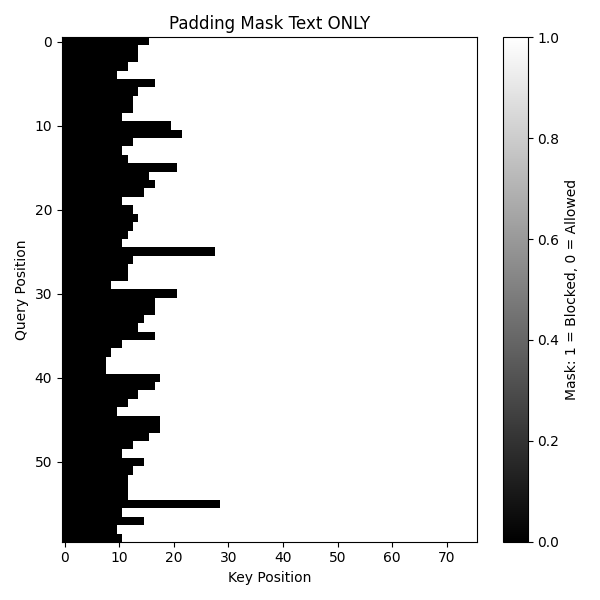
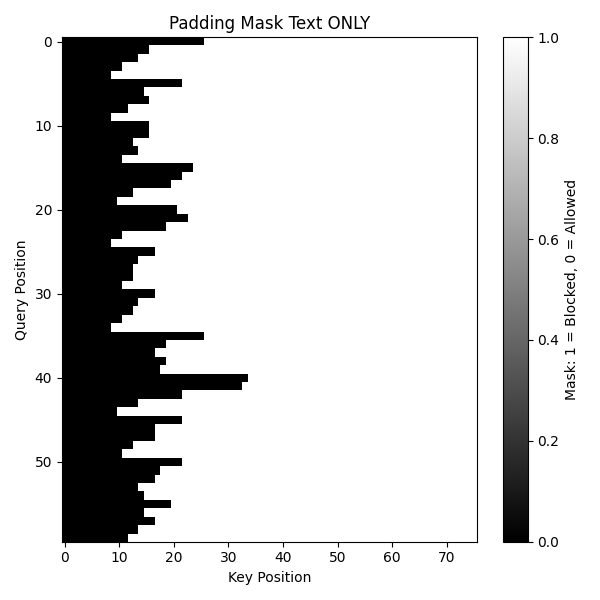
Hmm

diff --git a/CaptionTransformerDecoder.py b/CaptionTransformerDecoder.py
@@ -66,8 +66,9 @@ class CaptionTransformerDecoder(nn.Module):
         )
 
         # Make top right blocked
-        mask[:image_len, :] = 1
-
+        #mask[:image_len, :] = 1
+        mask[:image_len, :image_len] = 0  # allow image→image attention
+        mask[:image_len, image_len:] = 1  # block image→caption
         # All other attention (image tokens attend to all; captions to image) is allowed (False)
         return mask
 
